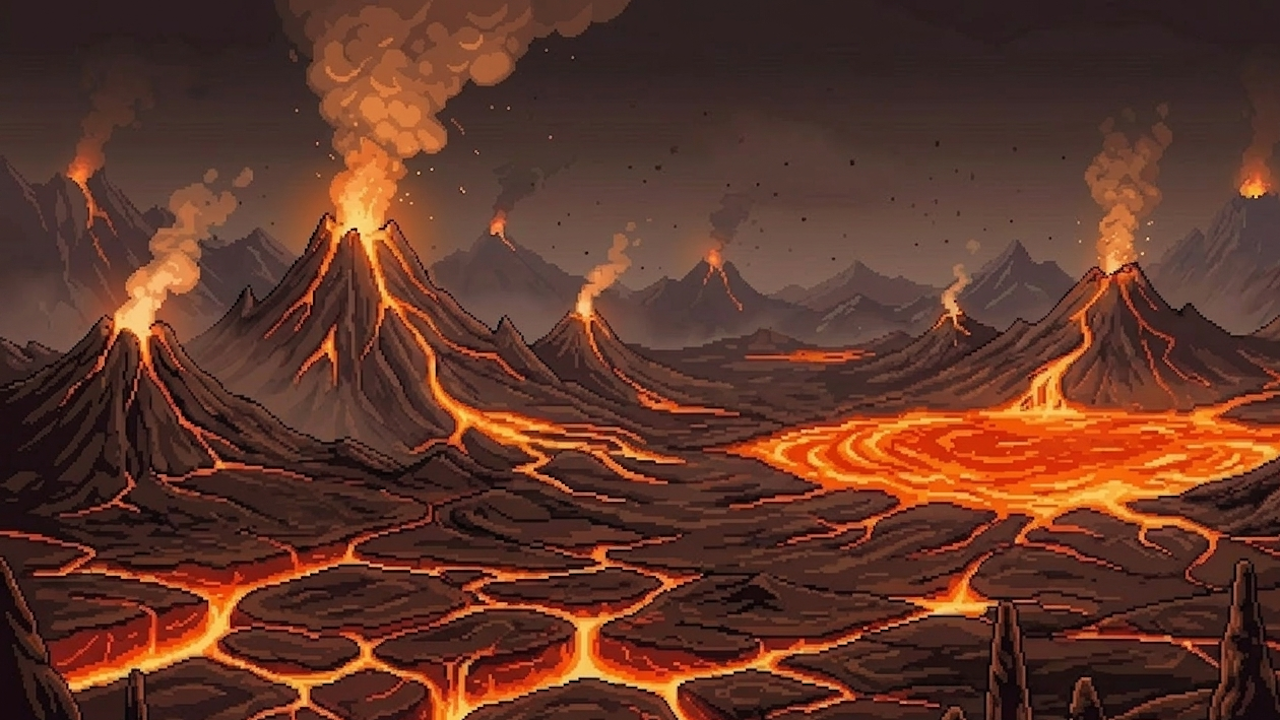
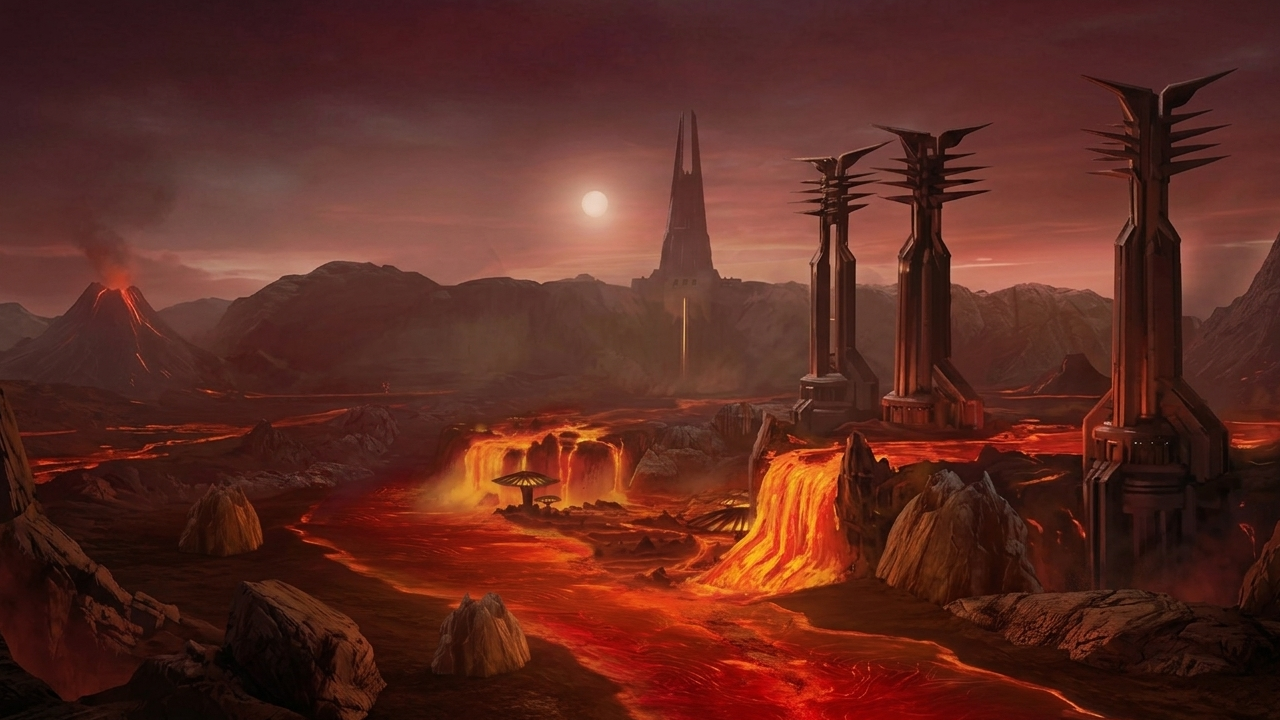
Fase 2 is rising

diff --git a/src/Hoth.cpp b/src/Hoth.cpp
@@ -1,0 +1,175 @@
+#define HOTHPNG "../assets/images/Hoth.png"
+
+//#include "../include/Gelo.h"
+//#include "../include/AT_ST.h"
+#include "../include/Entidade.h"
+#include "../include/Fase.h"
+#include "../include/Jogador.h"
+#include "../include/Inimigo.h"
+#include "../include/Obstaculo.h"
+#include "../include/Gerenciador_Grafico.h"
+#include "../include/Hoth.h"
+using namespace TrabalhoJogo;
+using namespace Listas;
+using namespace Entidades;
+using namespace Obstaculos;
+using namespace Fases;
+using namespace Gerenciadores;
+
+Hoth::Hoth(Jogador* pJ1, Jogador* pJ2): 
+    Fase(pJ1, pJ2),
+    minChefoes(3),
+    maxChefoes(7),
+    minObstDificil(3),
+    maxObstDificil(5)
+{   
+    sf::Texture* pTexturaFundo = Gerenciador_Grafico::getGerenciadorGrafico()->carregarTextura(HOTHPNG);
+        
+    if (pTexturaFundo == 0)
+        cerr << "Erro de carregamento do Plano de Fundo de Hoth" << endl;
+
+    else
+        fundo.setTexture(*pTexturaFundo); 
+    
+    inicializar(pJ1,pJ2);
+    criarObstaculos();
+    criarInimigos();
+}
+
+Hoth::~Hoth()
+{
+
+}
+
+void Hoth::criarInimigos()
+{
+    /*
+    int qntd = rand()%(maxChefoes-minChefoes+1) + minChefoes;
+    for (int i = 0; i < qntd; i++)
+    {
+        AT_ST* pAT = new AT_ST();
+        if (pAT == nullptr)
+            cerr << "Tentativa de incluir AT-ST nula na lista de entidades." << endl;
+        else
+            incluirEntidade(static_cast<Inimigo*>(pAT)); 
+    }
+    */
+}
+
+void Hoth::criarObstaculos()
+{
+    /*
+    int qntd = rand()%(maxObstDificil-minObstDificil+1) + minObstDificil;
+    for (int i = 0; i < qntd; i++)
+    {
+        Gelo* pGelo = new Gelo();
+        if (pGelo == nullptr)
+            cerr << "Tentativa de incluir gelo nula na lista de entidades." << endl;
+        else   
+            incluirEntidade(static_cast<Obstaculo*>(pGelo));
+    }
+    */
+}
+
+void Hoth::criarProjeteis()
+{
+
+}
+
+void Hoth::incluirEntidade(Entidade* pE) 
+{
+    if (pE == nullptr)
+    {
+        std::cerr << "Erro: tentativa de incluir entidade nula na fase." << std::endl;
+        return;
+    }
+
+    // Inspiração no menu do Sistema Acadêmico, visto em sala,
+    // durante aula do Prof. Dr. Jean Simão.
+    switch (pE->getID())
+    {
+        // Depois restringir ao usar inimigos e afins.
+        case jogador:
+        {
+            incluirJogador(static_cast<Jogador*>(pE));
+            break;
+        }
+
+        case inimigo:
+        {
+            incluirInimigo(static_cast<Inimigo*>(pE));
+            break;
+        }
+
+        case obstaculo:
+        {
+            incluirObstaculo(static_cast<Obstaculo*>(pE));
+            break;
+        }
+
+        default:
+        {
+            listaEntidades.incluir(pE);
+            break;
+        }
+    }
+}
+
+void Hoth::incluirJogador(Jogador* pJ)
+{
+    if (pJ == nullptr)
+    {
+        cerr << "Erro: tentativa de incluir jogador nulo na fase." << endl;
+        return;
+    }
+
+    if (listaJogadores.getTamanho() >= 2)
+    {
+        cerr << "Erro: a fase suporta no maximo 2 jogadores." << endl;
+        return;
+    }
+
+    listaEntidades.incluir(pJ);
+    listaJogadores.incluir(pJ);
+}
+
+void Hoth::incluirInimigo(Inimigo* pI)
+{
+    if (pI == nullptr)
+    {
+        cerr << "Erro: tentativa de incluir inimigo nulo na fase." << endl;
+        return;
+    }
+
+    if (listaInimigos.getTamanho() >= 45)
+    {
+        cerr << "Erro: a fase suporta no maximo 45 inimigos." << endl;
+        return;
+    }
+
+    listaEntidades.incluir(static_cast<Entidade*>(pI));
+    listaInimigos.incluir(pI);
+}
+
+void Hoth::incluirObstaculo(Obstaculo* pO)
+{
+    if (pO == nullptr)
+    {
+        cerr << "Erro: tentativa de incluir obstaculo nulo na fase." << endl;
+        return;
+    }
+
+    if (listaObstaculos.getTamanho() >= 45)
+    {
+        cerr << "Erro: a fase suporta no maximo 45 obstaculos." << endl;
+        return;
+    }
+
+    listaEntidades.incluir(static_cast<Entidade*>(pO));
+    listaObstaculos.incluir(pO);
+}
+
+sf::Sprite Hoth::getDrawData()
+{
+    return fundo;
+}

diff --git a/include/Hoth.h b/include/Hoth.h
@@ -1,18 +1,42 @@
 #pragma once
 
+//#include "../include/AT_ST.h"
+#include "../include/Lista.h"
+#include "../include/ListaEntidades.h"
+#include "../include/Inimigo.h"
+#include "../include/Obstaculo.h"
+#include "../include/Gerenciador_Colisoes.h"
+#include "../include/Ente.h"
+#include "../include/Fase.h"
+
 namespace TrabalhoJogo
 {
-    namespace Fase
+    namespace Fases
     {
         class Hoth : public Fase
         {
             private:
+                const int minChefoes;
                 const int maxChefoes;
+                const int minObstDificil;
+                const int maxObstDificil;
+                sf::Texture texturaFundo; 
+                sf::Sprite fundo;
 
-            protected:
-                void criarChefoes();
-                void criarObstaculosMedios();
+            private:
+                void incluirEntidade(Entidades::Entidade* pE);
+                void incluirJogador(Entidades::Personagens::Jogador* pJ);
+                void incluirInimigo(Entidades::Personagens::Inimigo* pI);
+                void incluirObstaculo(TrabalhoJogo::Entidades::Obstaculos::Obstaculo* pO);
+                void criarInimigos(); //Chefoes: Dificil
+                void criarObstaculos(); //Dificil
                 void criarProjeteis();
+
+            public:
+                Hoth(Entidades::Personagens::Jogador* pJ1 = nullptr, 
+                     Entidades::Personagens::Jogador* pJ2 = nullptr);
+                ~Hoth();
+                sf::Sprite getDrawData();
 
         };
     }